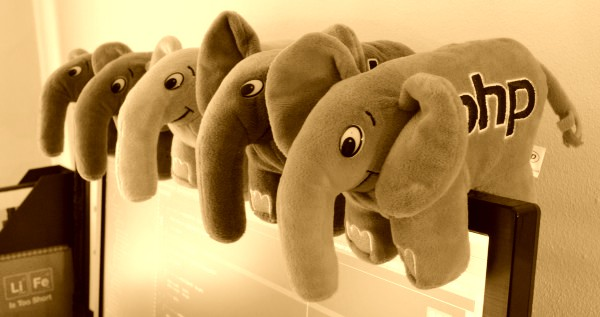
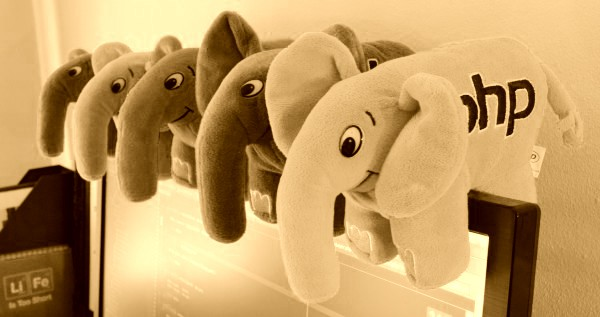
Another fix to the the Sepia Filter test
The SepiaFilter test didn’t seem to pass reliably; this change to the
color space should fix this.

diff --git a/tests/Filter/Imagick/SepiaFilterTest.php b/tests/Filter/Imagick/SepiaFilterTest.php
@@ -26,33 +26,4 @@ class SepiaFilterTest extends \PHPUnit_Framework_TestCase
     {
         $this->assertEquals('filter_sepia', $this->model->getName());
     }
-
-    public function testShouldApplyFilter()
-    {
-        $imagick = $this->getMockBuilder('\Imagick')
-            ->setMethods(['sepiaToneImage'])
-            ->getMock();
-
-        $imagick->expects($this->once())
-            ->method('sepiaToneImage')
-            ->with(90);
-
-        $imanee = $this->getMockBuilder('Imanee\Imanee')
-            ->setMethods(['getResource'])
-            ->getMock();
-
-        $imresource = $this->getMockBuilder('Imanee\ImageResource\ImagickResource')
-            ->setMethods(['getResource'])
-            ->getMock();
-
-        $imanee->expects($this->once())
-            ->method('getResource')
-            ->will($this->returnValue($imresource));
-
-        $imresource->expects($this->once())
-            ->method('getResource')
-            ->will($this->returnValue($imagick));
-
-        $this->model->apply($imanee, [ 'threshold' => 90 ]);
-    }
 }

diff --git a/src/Filter/Imagick/SepiaFilter.php b/src/Filter/Imagick/SepiaFilter.php
@@ -12,6 +12,9 @@ class SepiaFilter implements FilterInterface
      */
     public function apply(Imanee $imanee, array $options = [])
     {
+        $bw = new BWFilter;
+        $bw->apply($imanee);
+
         /** @var \Imagick $resource */
         $resource = $imanee->getResource()->getResource();
 
